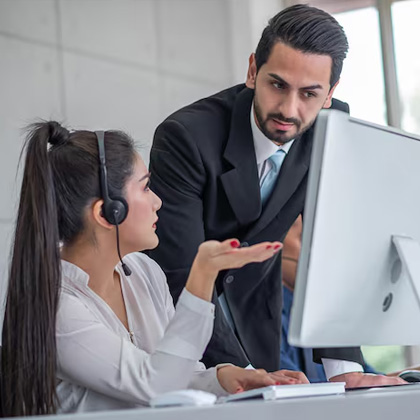
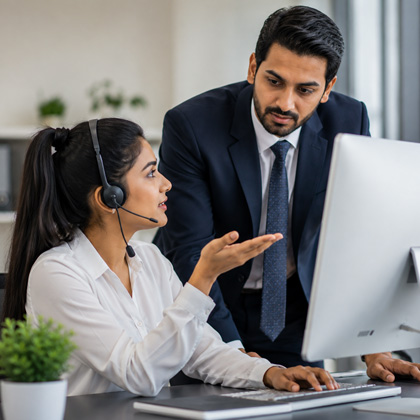
remaining changes done

diff --git a/assets/css/main-1.css b/assets/css/main-1.css
@@ -1103,7 +1103,10 @@ START: Theme Header CSS
   background-color: var(--tj-color-common-white);
   display: block;
 }
-
+.header-area.sticky .logo img{
+  background-color: var(--tj-color-common-black);
+      max-width: 90px;
+}
 @media only screen and (min-width: 576px) and (max-width: 767px),
 (max-width: 575px) {
   .header-area.sticky {
@@ -1115,6 +1118,7 @@ START: Theme Header CSS
     margin-inline-start: 0;
     -webkit-margin-end: 0;
     margin-inline-end: 0;
+            background-color: #000;
   }
 }
 
@@ -4612,7 +4616,7 @@ only screen and (min-width: 576px) and (max-width: 767px),
 }
 
 .hamburger_menu .mean-nav ul li a:hover {
-  color: var(--tj-color-theme-primary);
+    color: #fff;
 }
 
 .hamburger_menu .mean-nav ul li a.mean-expand {
@@ -4637,7 +4641,7 @@ only screen and (min-width: 576px) and (max-width: 767px),
 }
 
 .hamburger_menu .mean-nav ul li a.mean-expand.mean-clicked {
-  color: var(--tj-color-theme-primary);
+color: #fff;
   -webkit-transform: rotate(180deg);
   -ms-transform: rotate(180deg);
   transform: rotate(180deg);
@@ -12963,11 +12967,14 @@ only screen and (min-width: 576px) and (max-width: 767px),
 } */
 
 @media (max-width: 575px) {
-  .call-box .call-icon {
-    font-size: 18px;
-    height: 45px;
-    width: 45px;
-  }
+    .call-box .call-icon {
+        font-size: 16px;
+        height: 25px;
+        width: 25px;
+    }
+    .nls-container {
+    width: 100% !important;
+}
 }
 
 .call-box .title {
@@ -13014,7 +13021,7 @@ only screen and (min-width: 576px) and (max-width: 767px),
 
 @media (max-width: 575px) {
   .call-box .number {
-    font-size: 18px;
+    font-size: 14px;
   }
 }
 
@@ -14459,7 +14466,7 @@ only screen and (min-width: 576px) and (max-width: 767px),
   font-size: 16px;
   color: var(--tj-color-text-body-3);
   position: absolute;
-  top: 10px;
+  top: 8px;
   inset-inline-start: 0;
   pointer-events: none;
   -webkit-transition: all 0.2s linear;
@@ -14604,7 +14611,7 @@ only screen and (min-width: 576px) and (max-width: 767px),
 .contact-form.style-2 .form-input input[type=tel],
 .contact-form.style-2 .form-input input[type=text],
 .contact-form.style-2 .form-input input[type=email] {
-  color: var(--tj-color-text-body-2);
+  color: #fff;
   padding: 11px 0;
   border-bottom: 1px solid rgba(255, 255, 255, 0.15);
 }
@@ -33858,7 +33865,8 @@ only screen and (min-width: 768px) and (max-width: 991px) {
 .contact-form .form-input input:focus,
 .contact-form .form-input textarea:focus,
 .contact-form .form-input select:focus {
-  border-color: #fff;
+    border-color: #fff;
+    border-bottom: 1px dashed #c9d1d1;
 }
 
 /* FORCE WHITE PLACEHOLDER — OVERRIDE THEME */
@@ -34005,6 +34013,12 @@ only screen and (min-width: 768px) and (max-width: 991px) {
     max-width: 100%;
   }
 }
+/* MOBILE */
+@media (max-width: 999px) {
+.contact-form .country-code-phone .iti__country-container {
+    top: -7px !important;
+}
+}
 
 .team-card {
   padding: 15px;
@@ -34029,4 +34043,10 @@ only screen and (min-width: 768px) and (max-width: 991px) {
 .team-info {
   text-align: center;
   margin-top: 12px;
+}
+.contact-form  .country-code-phone .iti { 
+  width: 100%;
+ }
+.contact-form  .country-code-phone .iti__country-container {
+    top: -2px;
 }

diff --git a/layout.php b/layout.php
@@ -18,19 +18,19 @@ if (!isset($pageTitle)) {
 
   <!-- Place favicon.ico in the root directory -->
   <!-- Standard Favicons -->
-<link rel="icon" type="image/png" sizes="16x16" href="favicon_io/favicon-16x16.png">
-<link rel="icon" type="image/png" sizes="32x32" href="favicon_io/favicon-32x32.png">
-<link rel="shortcut icon" href="favicon_io/favicon.ico" type="image/x-icon">
+  <link rel="icon" type="image/png" sizes="16x16" href="favicon_io/favicon-16x16.png">
+  <link rel="icon" type="image/png" sizes="32x32" href="favicon_io/favicon-32x32.png">
+  <link rel="shortcut icon" href="favicon_io/favicon.ico" type="image/x-icon">
 
-<!-- Apple Touch Icon -->
-<link rel="apple-touch-icon" sizes="180x180" href="favicon_io/apple-touch-icon.png">
+  <!-- Apple Touch Icon -->
+  <link rel="apple-touch-icon" sizes="180x180" href="favicon_io/apple-touch-icon.png">
 
-<!-- Android Chrome Icons -->
-<link rel="icon" type="image/png" sizes="192x192" href="favicon_io/android-chrome-192x192.png">
-<link rel="icon" type="image/png" sizes="512x512" href="favicon_io/android-chrome-512x512.png">
+  <!-- Android Chrome Icons -->
+  <link rel="icon" type="image/png" sizes="192x192" href="favicon_io/android-chrome-192x192.png">
+  <link rel="icon" type="image/png" sizes="512x512" href="favicon_io/android-chrome-512x512.png">
 
-<!-- Web App Manifest -->
-<link rel="manifest" href="favicon_io/site.webmanifest">
+  <!-- Web App Manifest -->
+  <link rel="manifest" href="favicon_io/site.webmanifest">
 
 
   <!-- CSS here -->
@@ -46,6 +46,7 @@ if (!isset($pageTitle)) {
   <link rel="stylesheet" href="assets/css/meanmenu.css">
   <link rel="stylesheet" href="assets/css/main.css">
   <link rel="stylesheet" href="assets/css/main-1.css">
+  <link rel="stylesheet" href="https://cdn.jsdelivr.net/npm/intl-tel-input@25.3.1/build/css/intlTelInput.css">
 </head>
 
 <body>
@@ -71,16 +72,16 @@ if (!isset($pageTitle)) {
   <!-- back to top start -->
   <div id="tj-back-to-top"><span id="tj-back-to-top-percentage"></span></div>
   <!-- back to top end -->
- <?php include 'includes/header.php'; ?>
- 
-<div id="smooth-wrapper">
-  <div id="smooth-content">
-    <main class="page-content">
-      <?= $content ?? '' ?>
-      <?php include 'includes/footer.php'; ?>
-    </main>
+  <?php include 'includes/header.php'; ?>
+
+  <div id="smooth-wrapper">
+    <div id="smooth-content">
+      <main class="page-content">
+        <?= $content ?? '' ?>
+        <?php include 'includes/footer.php'; ?>
+      </main>
+    </div>
   </div>
-</div>
 
 
 
@@ -101,7 +102,46 @@ if (!isset($pageTitle)) {
   <script src="assets/js/wow.min-1.js"></script>
   <script src="assets/js/meanmenu-1.js"></script>
   <script src="assets/js/main-1.js"></script>
-  
+  <script src="https://cdn.jsdelivr.net/npm/intl-tel-input@25.3.1/build/js/intlTelInput.min.js"></script>
+  <script src="https://cdn.jsdelivr.net/npm/intl-tel-input@25.3.1/build/js/utils.js"></script>
+  <script>
+    document.addEventListener("DOMContentLoaded", function () {
+
+      const input = document.querySelector("#cfPhone");
+
+      const iti = window.intlTelInput(input, {
+        initialCountry: "auto",
+        separateDialCode: true,
+        nationalMode: false,
+        autoPlaceholder: "aggressive",
+
+        // Detect country by user's IP
+        geoIpLookup: function (callback) {
+          fetch("https://ipapi.co/json/")
+            .then(res => res.json())
+            .then(data => callback(data.country_code))
+            .catch(() => callback("us"));
+        },
+
+        loadUtils: () =>
+          import("https://cdn.jsdelivr.net/npm/intl-tel-input@25.3.1/build/js/utils.js")
+      });
+
+      // Convert number to international format before submitting
+      document.querySelector("form").addEventListener("submit", function () {
+        input.value = iti.getNumber();
+      });
+
+    });
+  </script>
+  <!-- <script>
+    document.querySelector("form").addEventListener("submit", function () {
+      const code = document.getElementById("countryCode").value;
+      const phone = document.getElementById("phone").value.trim();
+      document.getElementById("phone").value = code + phone;
+    });
+  </script> -->
+
 </body>
 
 </html>

diff --git a/contact.php b/contact.php
@@ -123,14 +123,30 @@ if ($_SERVER['REQUEST_METHOD'] === 'POST') {
                   <label class="cf-label">Email Address <span>*</span></label>
                 </div>
               </div>
-
+              <!-- 
               <div class="col-sm-6">
-                <div class="form-input">
-                  <input type="tel" name="cfPhone" placeholder=" " required>
-                  <label class="cf-label">Phone Number <span>*</span></label>
+                <div class="form-input country-code-phone">
+                  <div style="display:flex;">
+                    <select id="countryCode" style="width:20px;">
+                      <option value="+91">🇮🇳 +91</option>
+                      <option value="+1">🇺🇸 +1</option>
+                      <option value="+44">🇬🇧 +44</option>
+                      <option value="+971">🇦🇪 +971</option>
+                    </select>
+                    <div>
+                      <input type="tel" name="cfPhone" placeholder=" " required>
+                      <label class="cf-label">Phone Number <span>*</span></label>
+                    </div>
+                  </div>
+                </div>
+              </div> -->
+
+              <div class="col-sm-6 country-code-phone">
+                <div class="form-input ">
+                  <input type="tel" id="cfPhone" name="cfPhone" placeholder=" " required>
+                  <!-- <label class="cf-label">Phone Number <span>*</span></label> -->
                 </div>
               </div>
-
               <div class="col-sm-6">
                 <div class="form-input">
                   <div class="tj-nice-select-box">
@@ -164,7 +180,6 @@ if ($_SERVER['REQUEST_METHOD'] === 'POST') {
                   <span class="btn-icon"><i class="tji-arrow-right-long"></i></span>
                 </button>
               </div>
-
             </div>
           </form>
 

diff --git a/term-condition.php b/term-condition.php
@@ -61,14 +61,14 @@ ob_start();
                             <li>
                                 <strong>Company Ownership:</strong>
                                 All branding, text, and original design elements on this website are the exclusive
-                                property of NXT Level Limited.
+                                property of Nxtlevel Limited.
                             </li>
 
                             <li>
                                 <strong>Client Deliverables:</strong>
                                 Upon receipt of full payment for design or consulting services, the agreed-upon final
                                 deliverables shall be transferred to the client.
-                                NXT Level Limited retains a non-exclusive right to feature these works in our
+                                Nxtlevel Limited retains a non-exclusive right to feature these works in our
                                 professional portfolio.
                             </li>
                         </ul>
@@ -92,7 +92,7 @@ ob_start();
                         <h3 class="title title-anim">5. Limitation of Liability</h3>
 
                         <p>
-                            To the maximum extent permitted by law, NXT Level Limited and its affiliates
+                            To the maximum extent permitted by law, Nxtlevel Limited and its affiliates
                             shall not be held liable for any indirect, incidental, or consequential damages,
                             including but not limited to loss of profits, data, or business opportunities
                             arising from the use of our services or website.
@@ -165,7 +165,7 @@ ob_start();
                             please contact:
                         </p>
 
-                        <p><strong>NXT Level Limited</strong></p>
+                        <p><strong>Nxtlevel Limited</strong></p>
 
                         <ul>
                             <li>

diff --git a/admin-services.php b/admin-services.php
@@ -12,18 +12,14 @@ ob_start();
         <div class="row">
             <div class="col-lg-12">
                 <div class="con-page-header-content text-left">
-
                     <div class="tj-page-link">
                         <span><i class="tji-home"></i></span>
                         <span><a href="index.php">Home</a></span>
                         <span><i class="tji-arrow-right"></i></span>
                         <span><span>Service</span></span>
                     </div>
-
                 </div>
-
                 <h2 class="tj-page-title mt-2"><b>Admin Services</b></h2>
-
             </div>
         </div>
     </div>

diff --git a/privacy-policy.php b/privacy-policy.php
@@ -30,7 +30,7 @@ ob_start();
           <!-- 1: Information We Collect -->
           <div id="info-we-collect">
             <h3 class="title title-anim">1. Introduction: </h3 class="title title-anim">
-            <p>NXT Level Limited (“we,” “us,” “our”) is committed to protecting your privacy. This policy outlines how we collect, use,  and protect your personal information in compliance with the New Zealand Privacy Act 2020 and relevant  international data protection standards. </p>
+            <p>Nxtlevel Limited (“we,” “us,” “our”) is committed to protecting your privacy. This policy outlines how we collect, use,  and protect your personal information in compliance with the New Zealand Privacy Act 2020 and relevant  international data protection standards. </p>
           </div>
 
           <!-- 2: How We Use -->
@@ -98,9 +98,7 @@ ob_start();
           <div id="contact">
             <h3 class="title title-anim">7. Cookies & Tracking: </h3 class="title title-anim">
             <p>We use cookies to monitor website usage and improve performance. You may disable cookies in your browser settings, though some features of our site may not function properly as a result.</p>
-            
           </div>
-
         </div>
       </div>
     </div>

diff --git a/careers.php b/careers.php
@@ -163,7 +163,7 @@ if ($_SERVER["REQUEST_METHOD"] == "POST") {
                 <div class="about-content-area text-center mb-5">
                     <div class="sec-heading">
                         <span class="sub-title wow fadeInUp" data-wow-delay=".3s">
-                            <i class="tji-box"></i>Career <strong>NXT Level</strong> Limited
+                            <i class="tji-box"></i>Career <strong>NXT Level</strong>
                         </span>
                         <h3 class="sec-title title-anim">
                             We empower professionals with the tools, training, and

diff --git a/pages/home/about.php b/pages/home/about.php
@@ -54,7 +54,7 @@
       <div class="col-lg-4 col-md-6 mb-4">
         <div class="about-img-area style-2 h-100 wow fadeInUp" data-wow-delay=".4s">
           <div class="about-img overflow-hidden">
-            <img src="assets/images/about/about-5.jpeg" alt="About NXT Level Limited">
+            <img src="assets/images/about/about-5.jpeg" alt="About NXT Level">
           </div>
 
           <div class="box-area style-2 mt-3">